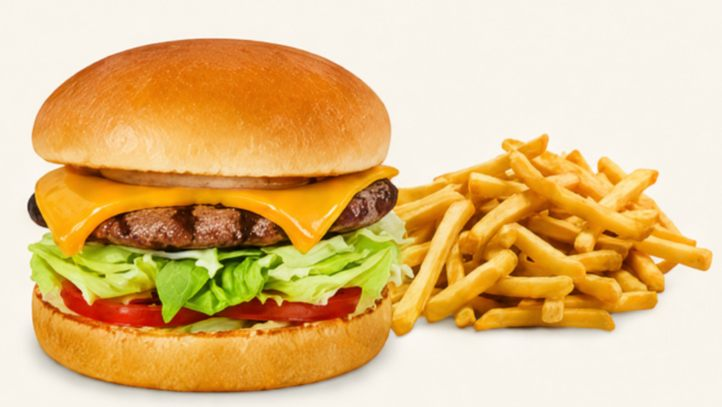
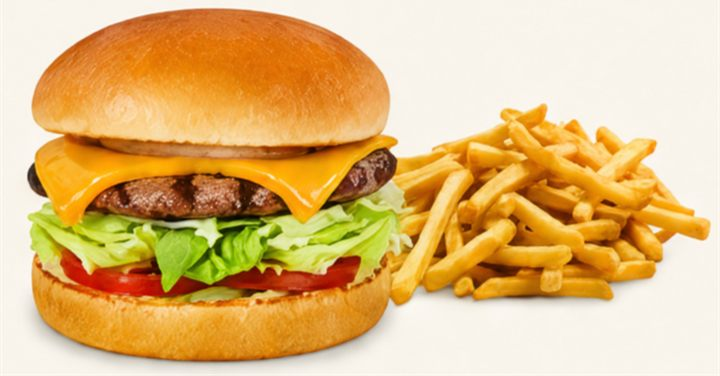
fix(participant): 버거 사진을 잘리지 않게, 높이는 줄여서
가로로 긴 사진을 4:3 틀에 cover로 넣어 좌우가 잘리고 있었습니다.

- 원본 위쪽 빈 여백 30px만 잘라내 720x376으로 (가로는 그대로, 내용은 안 잘림)
- 사진마다 비율을 지정할 수 있게 하고 이 장은 실제 비율을 씁니다
  → 폰에서 293x220 → 293x153. 높이 30% 줄고 잘림 없음.
- 나머지 여섯 장은 4:3 그대로입니다.

diff --git a/participant-app/src/components/ServedMeals.jsx b/participant-app/src/components/ServedMeals.jsx
@@ -41,7 +41,13 @@ export default function ServedMeals() {
             <div className={`served-photos${meal.photos.length > 1 ? ' multi' : ''}`}>
               {meal.photos.map((photo) => (
                 <figure className="served-photo" key={photo.src}>
-                  <img src={photo.src} alt={photo.caption} loading="lazy" />
+                  {/* ratio가 있으면 그 비율로 — 없으면 CSS 기본값(4:3) */}
+                  <img
+                    src={photo.src}
+                    alt={photo.caption}
+                    loading="lazy"
+                    style={photo.ratio ? { '--ratio': photo.ratio } : undefined}
+                  />
                   <figcaption>{photo.caption}</figcaption>
                 </figure>
               ))}

diff --git a/admin-app/src/config.js b/admin-app/src/config.js
@@ -631,7 +631,9 @@ export const SERVED_MEALS = [
     cuisine: '크라이치즈버거',
     servedAt: '15:00',
     photos: [
-      { src: './served/day1-snack-burger.jpg', caption: '크라이치즈버거 & 감자튀김 세트' },
+      // 가로로 긴 사진입니다. 기본 4:3 틀에 넣으면 좌우가 잘려서, 파일의
+      // 실제 비율(720x376)을 그대로 씁니다 — 잘리지 않고 높이도 줄어듭니다.
+      { src: './served/day1-snack-burger.jpg', caption: '크라이치즈버거 & 감자튀김 세트', ratio: '720 / 376' },
     ],
     // 항목 목록 없음 — 사진 캡션이 같은 말을 합니다
   },

diff --git a/participant-app/src/config.js b/participant-app/src/config.js
@@ -631,7 +631,9 @@ export const SERVED_MEALS = [
     cuisine: '크라이치즈버거',
     servedAt: '15:00',
     photos: [
-      { src: './served/day1-snack-burger.jpg', caption: '크라이치즈버거 & 감자튀김 세트' },
+      // 가로로 긴 사진입니다. 기본 4:3 틀에 넣으면 좌우가 잘려서, 파일의
+      // 실제 비율(720x376)을 그대로 씁니다 — 잘리지 않고 높이도 줄어듭니다.
+      { src: './served/day1-snack-burger.jpg', caption: '크라이치즈버거 & 감자튀김 세트', ratio: '720 / 376' },
     ],
     // 항목 목록 없음 — 사진 캡션이 같은 말을 합니다
   },

diff --git a/participant-app/src/styles.css b/participant-app/src/styles.css
@@ -166,7 +166,7 @@ html.dark .folder-tab { background: #2c2721; }
 .served-photos.multi { grid-template-columns: repeat(2, 1fr); }
 .served-photo { margin: 0; min-width: 0; }
 .served-photo img {
-  display: block; width: 100%; aspect-ratio: 4 / 3; object-fit: cover;
+  display: block; width: 100%; aspect-ratio: var(--ratio, 4 / 3); object-fit: cover;
   border-radius: 10px; background: var(--bg);
 }
 .served-photo figcaption {
